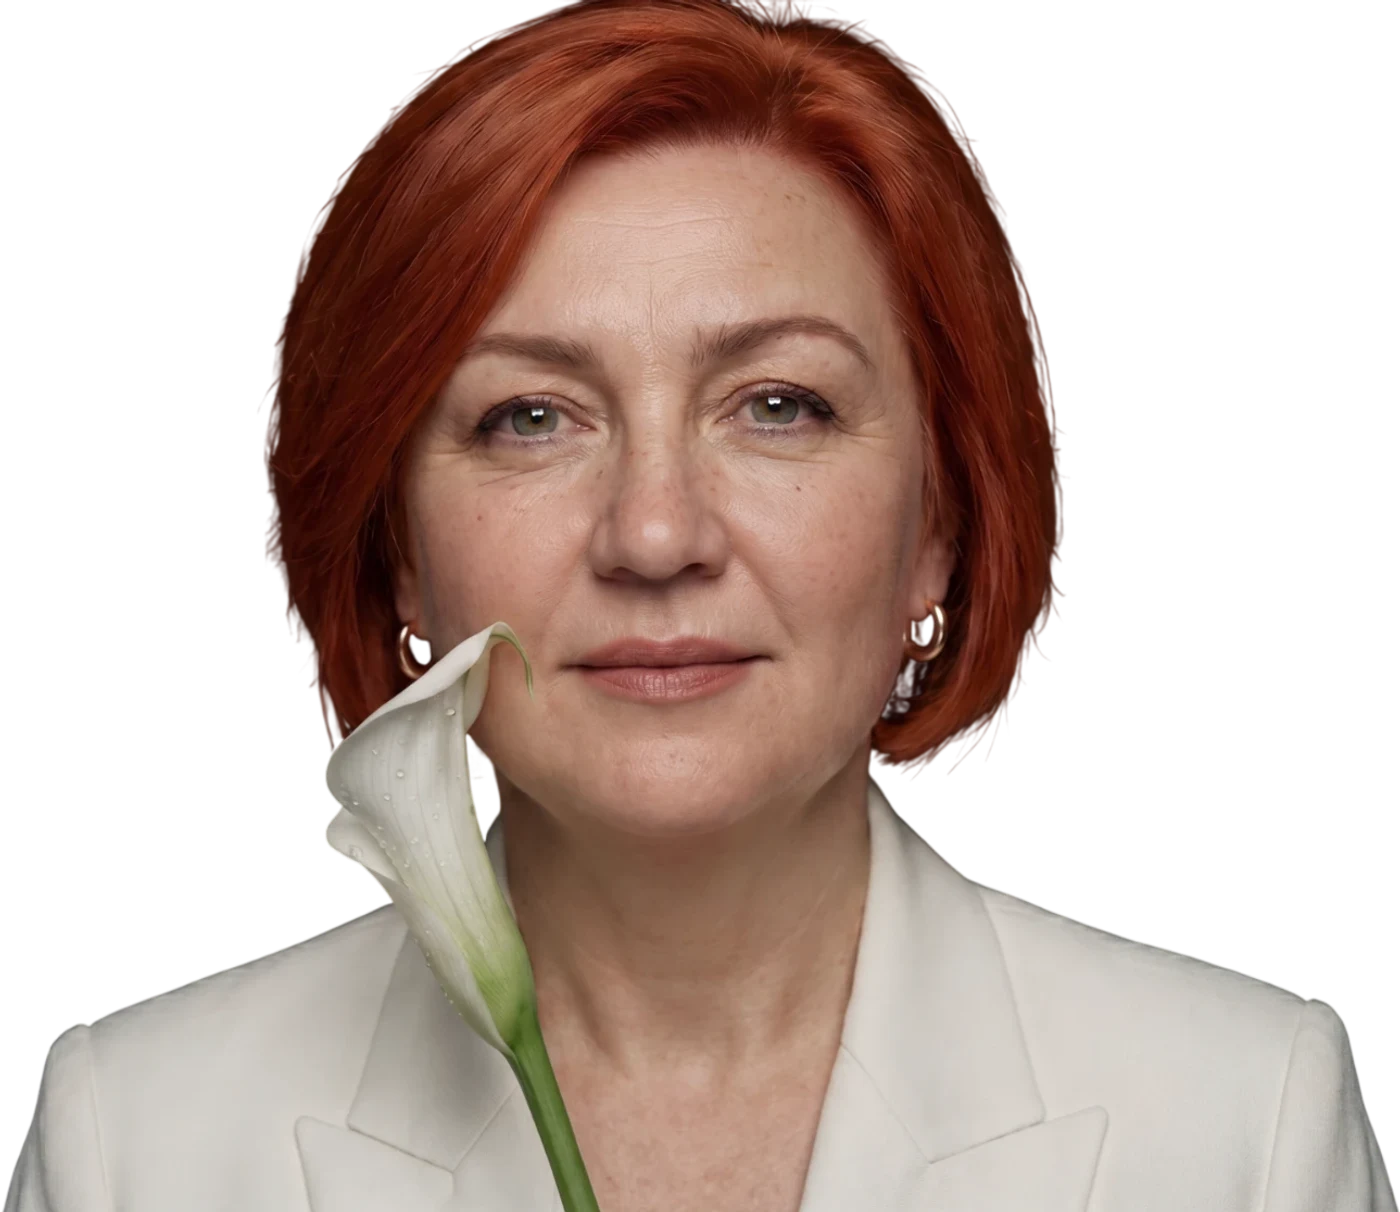
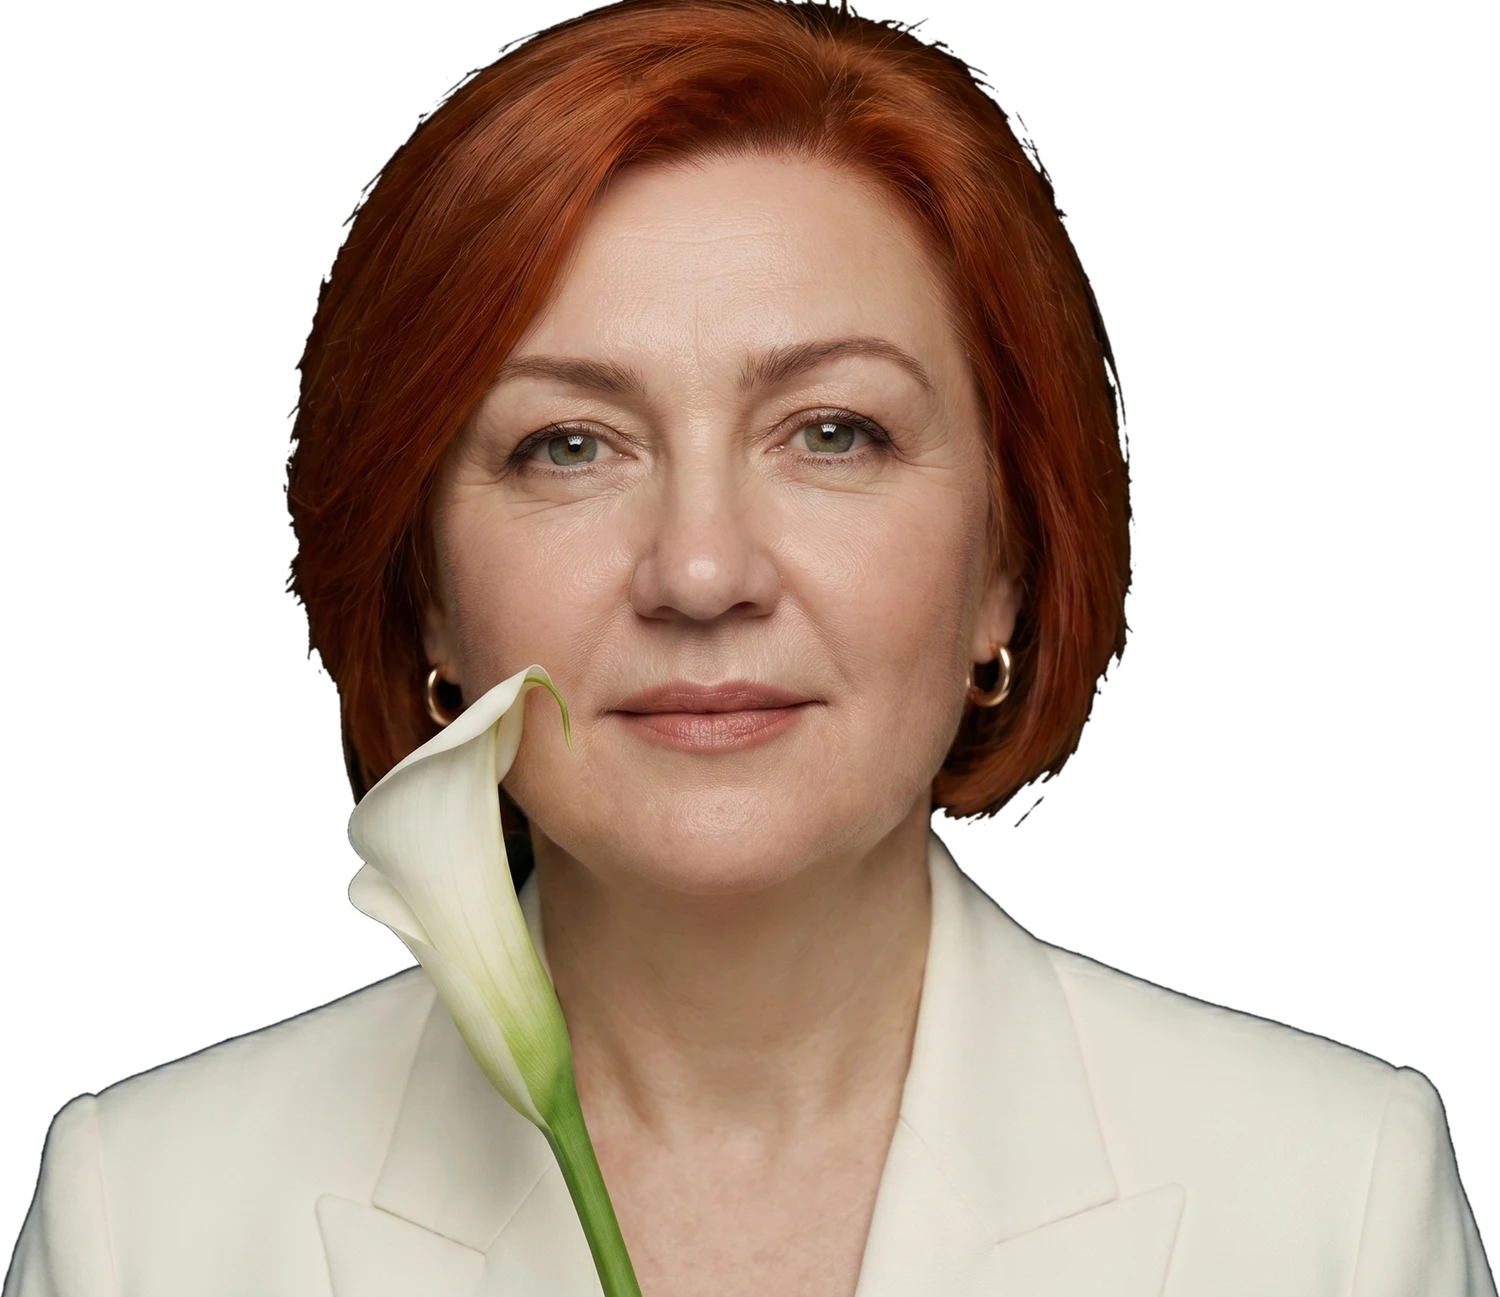
«Сейчас»: calla portrait from the source folder, background and watermark removed

diff --git a/index.html b/index.html
@@ -19,7 +19,7 @@
 <link rel="preconnect" href="https://fonts.gstatic.com" crossorigin>
 <link href="https://fonts.googleapis.com/css2?family=Inter:ital,wght@0,300;0,400;0,500;0,700;1,300;1,400&family=Playfair+Display:ital,wght@1,500&family=Great+Vibes&family=Cormorant+Garamond:wght@300;400;500&family=Tenor+Sans&display=swap" rel="stylesheet">
 <link rel="preload" as="image" href="img/person.webp?v=2">
-<link rel="stylesheet" href="styles.css?v=396">
+<link rel="stylesheet" href="styles.css?v=397">
 </head>
 <body>
 <!-- Общая шапка для всего сайта: бургер-меню и монограмма слева, кнопка «Связаться со мной» справа -->
@@ -243,7 +243,7 @@
       <figure class="nowg__cell" style="--x:1360;--y:112;--w:210;--ar:0.7500"><img src="img/gallery/service-blue.webp" width="900" height="1200" alt="Сервиз чайный" loading="lazy" decoding="async"><figcaption class="nowg__cap"><span class="nowg__cap-in">04 — Сервиз чайный</span></figcaption></figure>
       <figure class="nowg__cell" style="--x:1630;--y:130;--w:230;--ar:0.7500"><img src="img/gallery/vase.webp" width="900" height="1200" alt="Ваза. Фарфор" loading="lazy" decoding="async"><figcaption class="nowg__cap"><span class="nowg__cap-in">05 — Ваза. Фарфор</span></figcaption></figure>
       <figure class="nowg__cell" style="--x:60;--y:330;--w:340;--ar:1.7778"><img src="img/gallery/porcelain.webp" width="1600" height="900" alt="«Авторский фарфор»" loading="lazy" decoding="async"><figcaption class="nowg__cap"><span class="nowg__cap-in">06 — «Авторский фарфор»</span></figcaption></figure>
-      <figure class="nowg__cell nowg__cell--target" style="--x:470;--y:410;--w:230;--ar:1.1551"><figcaption class="nowg__cap"><span class="nowg__cap-in">07 — Людмила Иващенко</span></figcaption></figure>
+      <figure class="nowg__cell nowg__cell--target" style="--x:470;--y:410;--w:230;--ar:1.1530"><figcaption class="nowg__cap"><span class="nowg__cap-in">07 — Людмила Иващенко</span></figcaption></figure>
       <figure class="nowg__cell" style="--x:770;--y:450;--w:200;--ar:0.7500"><img src="img/gallery/music.webp" width="900" height="1200" alt="«Вечера живой музыки»" loading="lazy" decoding="async"><figcaption class="nowg__cap"><span class="nowg__cap-in">08 — «Вечера живой музыки»</span></figcaption></figure>
       <figure class="nowg__cell" style="--x:1040;--y:520;--w:420;--ar:1.7778"><img src="img/gallery/burger.webp" width="1600" height="900" alt="Кафе «Бургер-восторг»" loading="lazy" decoding="async"><figcaption class="nowg__cap"><span class="nowg__cap-in">09 — Кафе «Бургер-восторг»</span></figcaption></figure>
       <figure class="nowg__cell" style="--x:1530;--y:530;--w:220;--ar:0.7500"><img src="img/gallery/mugs.webp" width="900" height="1200" alt="Набор кружек" loading="lazy" decoding="async"><figcaption class="nowg__cap"><span class="nowg__cap-in">10 — Набор кружек</span></figcaption></figure>

diff --git a/styles.css b/styles.css
@@ -758,7 +758,7 @@ a { color: inherit; text-decoration: none; }
 .story__now-photo { position: absolute; inset: 0; opacity: 0; visibility: hidden; overflow: hidden; will-change: clip-path; background: #E8DCC8; }   /* фирменный молочный фон */
 /* «Сейчас»: портрет по центру, крупная надпись сверху и снизу (по мотивам «Image To Grid Transition», Codrops) */
 .nowg__item { position: absolute; z-index: 1; left: calc(50% - 325 * var(--u)); top: calc(50% - 240 * var(--u)); width: calc(650 * var(--u)); height: calc(563 * var(--u)); }   /* между строками надписи — надпись не заходит на портрет */
-.nowg__img { width: 100%; height: 100%; background: url(img/story/now-calla.webp) 50% 100% / contain no-repeat; }   /* портрет без фона, целиком */
+.nowg__img { width: 100%; height: 100%; background: url(img/story/now-calla.webp?v=2) 50% 100% / contain no-repeat; }   /* портрет без фона, целиком */
 .story .story__now-text { inset: 0; max-width: none; pointer-events: none; }
 .story__now-text .story__title { position: absolute; inset: 0; margin: 0; font-size: calc(150 * var(--u)); line-height: 1; letter-spacing: -.035em; white-space: nowrap; }
 .story__now-text .story__mask { position: absolute; padding: .06em 0 .16em; margin: 0; }
